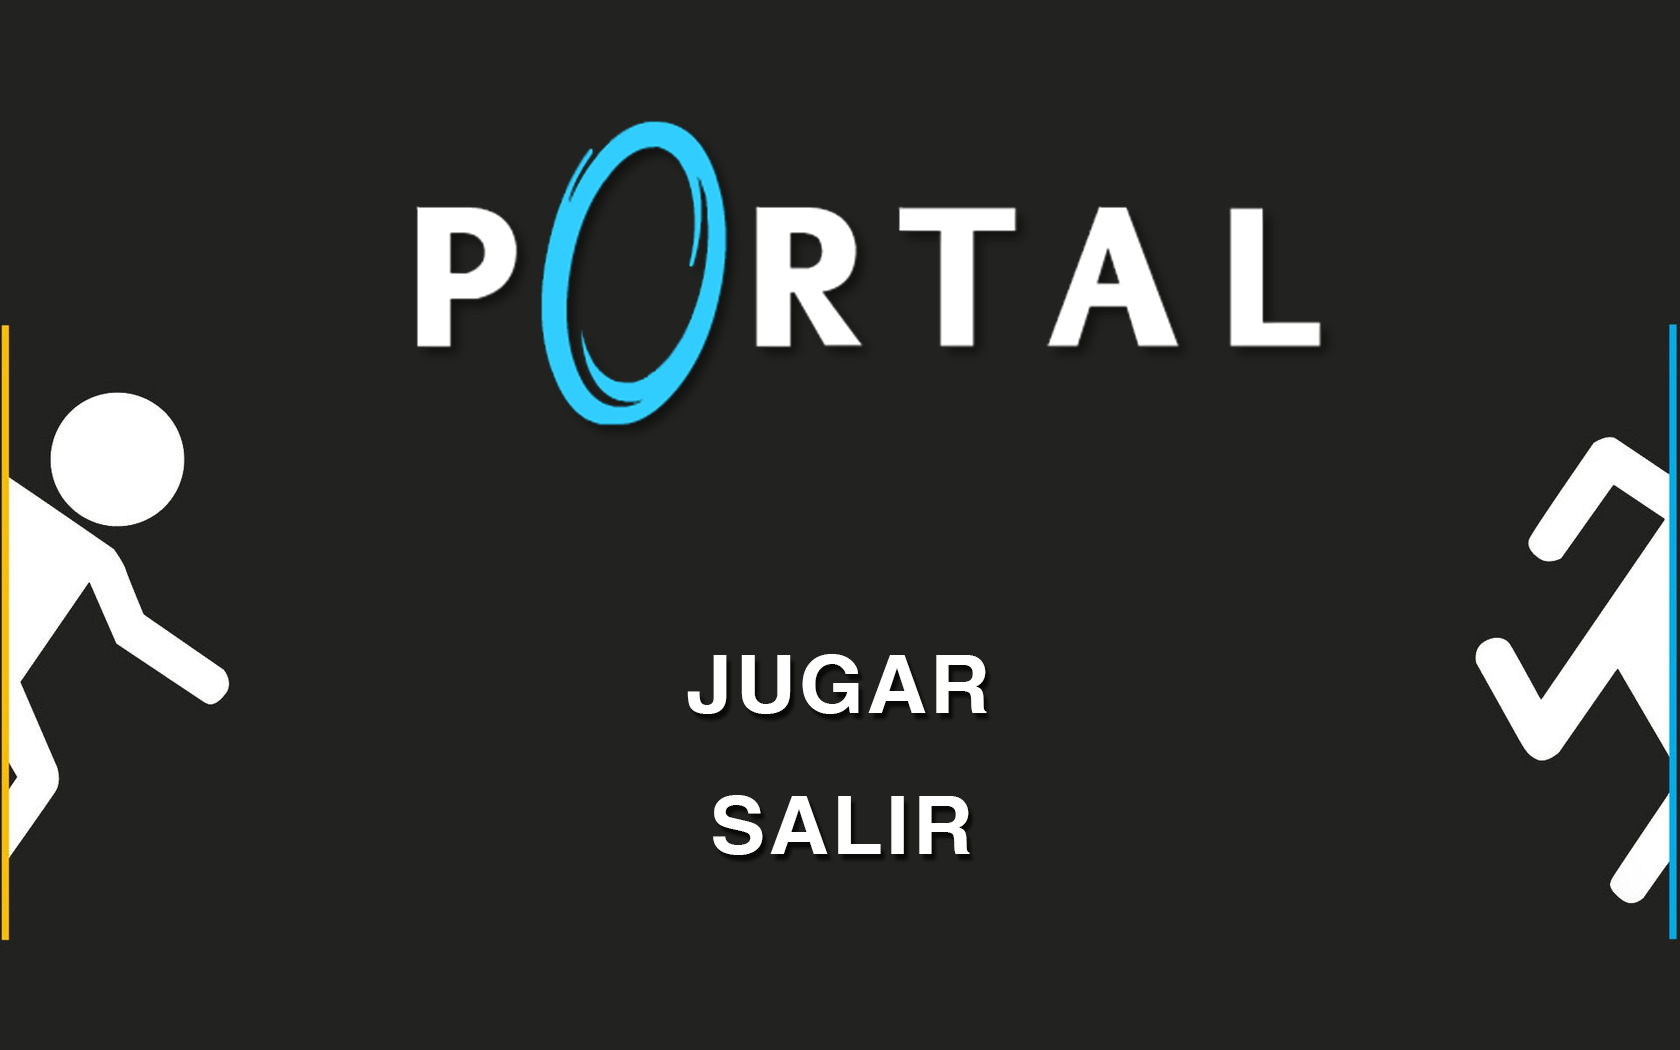
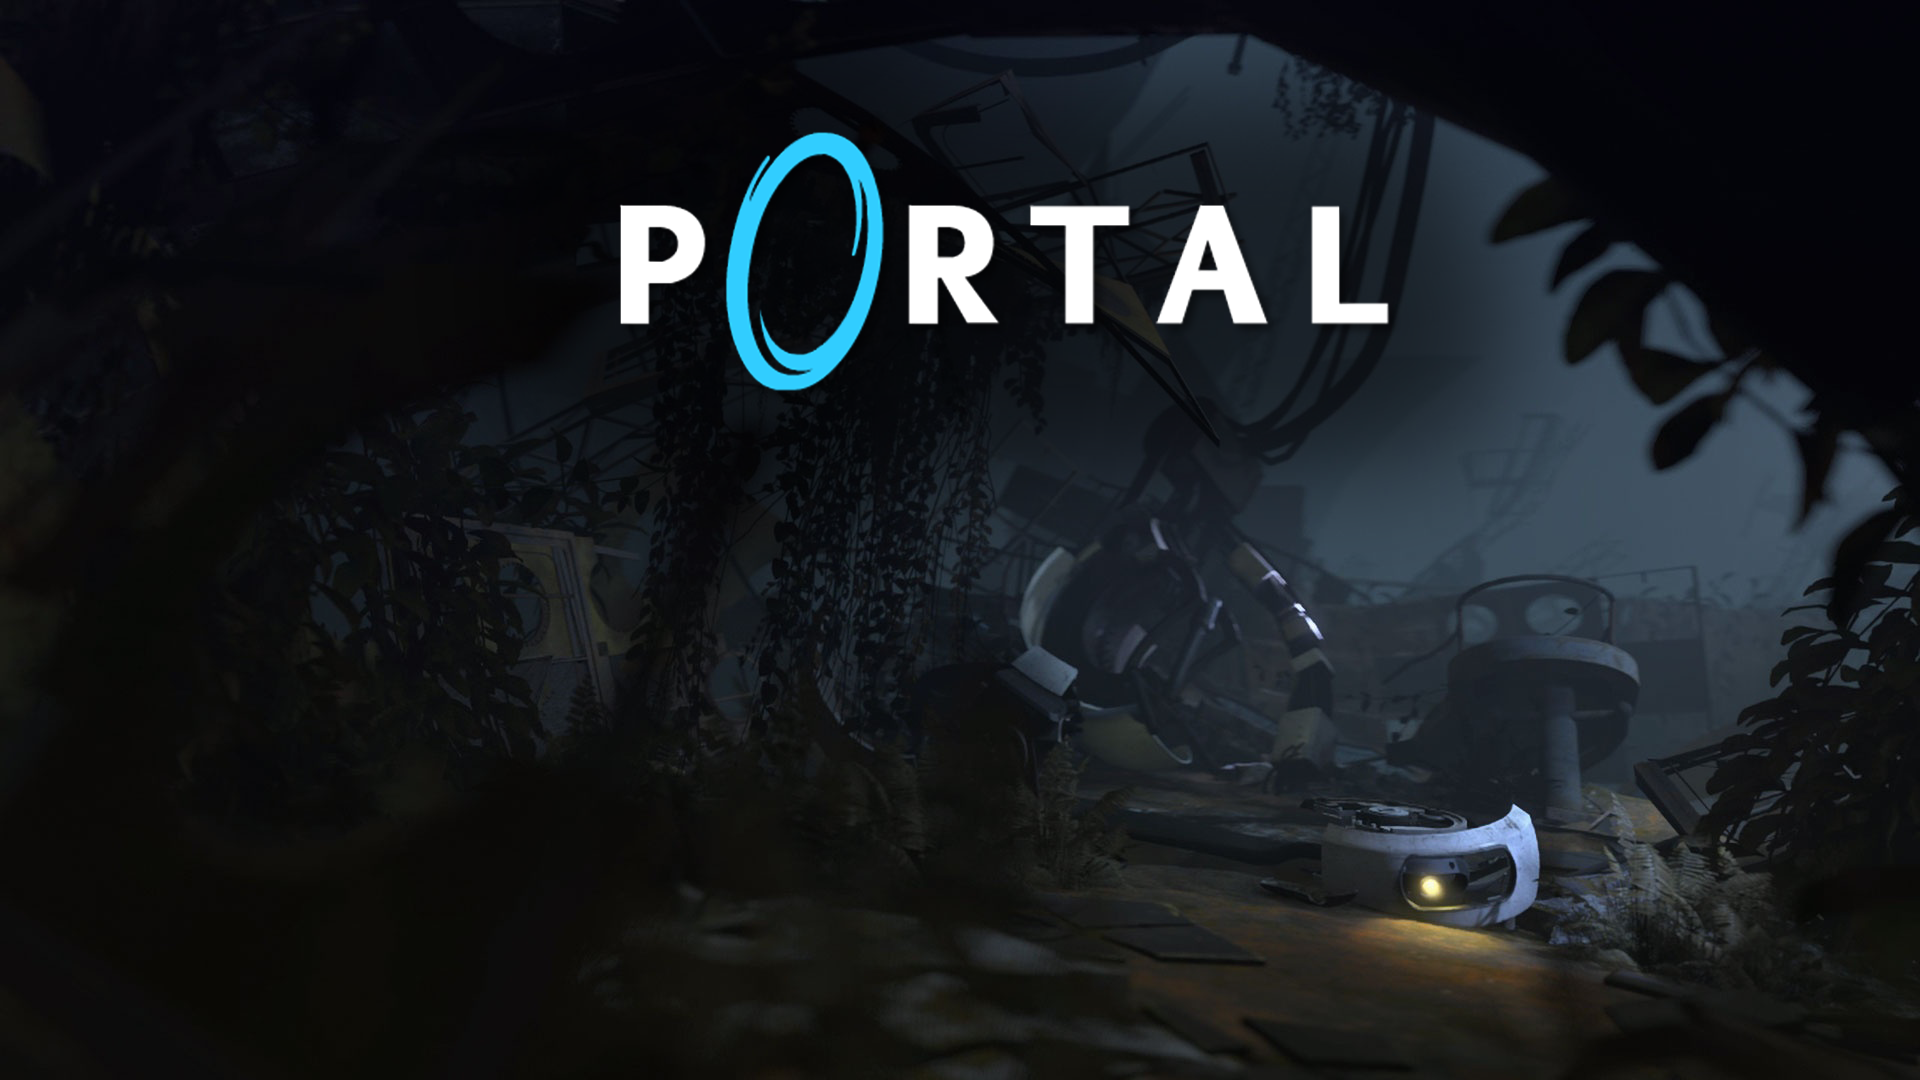
cambio imagen menu, imagen sala

diff --git a/src/Cliente/VistaFondo.cpp b/src/Cliente/VistaFondo.cpp
@@ -4,7 +4,7 @@
 
 VistaFondo::VistaFondo(const SdlTexture& tex) {
 	this->textura = tex;
-	Area srcArea(0, 0, 1680, 1050);
+	Area srcArea(0, 0, 1920, 1080);
 	clips.push_back(srcArea);
 	tamanioHorizontal = 0;
 	tamanioVertical = 0;
@@ -17,7 +17,7 @@ void VistaFondo::setDimensiones(int x, int y) {
 
 void VistaFondo::dibujarEn(int x, int y) {
 	Area srcArea = clips.front();
-	Area destArea(x, y, tamanioHorizontal, tamanioVertical);
+	Area destArea(x - tamanioHorizontal/2, y - tamanioVertical/2, tamanioHorizontal, tamanioVertical);
 	textura.render(srcArea, destArea);
 }
 

diff --git a/src/Cliente/SeleccionadorEscena.cpp b/src/Cliente/SeleccionadorEscena.cpp
@@ -24,12 +24,14 @@ SeleccionadorEscena::SeleccionadorEscena(int xScreen, int yScreen) :
 
 void SeleccionadorEscena::ejecutar() {
 	EscenaBase* escena;
-	while(true) {
+	bool terminado = false;
+	while(!terminado) {
 	    escena = escenas.at(escenaActual);
 		escena->actualizar();
 		escena->dibujar();
 		escenaActual = escena->manejarEventos();
-		if (escena->termino()) break;
+		if (escena->termino()) 
+			terminado = true;
 	}
 }
 

diff --git a/src/Cliente/Menu.cpp b/src/Cliente/Menu.cpp
@@ -40,7 +40,7 @@ void Menu::dibujar() {
 	window.fill();
 	window.getWindowSize(&xScreen, &yScreen);
 	fondo.setDimensiones(xScreen, yScreen);
-	fondo.dibujarEn(0, 0);
+	fondo.dibujarEn(xScreen/2, yScreen/2);
 	std::this_thread::sleep_for(std::chrono::milliseconds(1));
 	window.render();
 }
